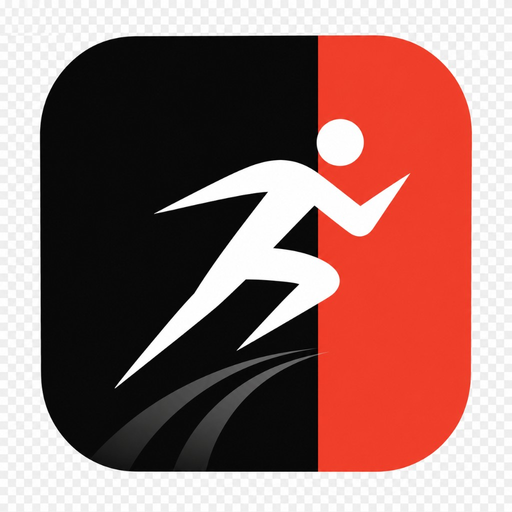
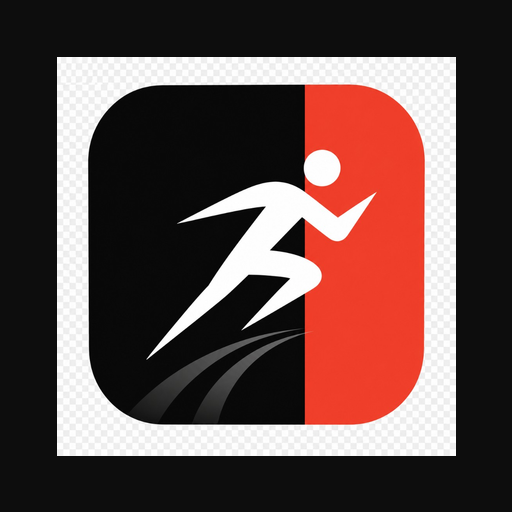
fix: corrige bordas brancas do icone PWA com zoom e canvas maskable solido

diff --git a/scripts/generate-icons.ts b/scripts/generate-icons.ts
@@ -1,35 +1,61 @@
-import { readFileSync } from "fs";
 import { join } from "path";
 import sharp from "sharp";
 
 const root = join(__dirname, "..");
 const sourcePath = join(root, "public", "app-icon-source.png");
-const source = readFileSync(sourcePath);
+
+const BG = "#0d0d0d"; // fundo sólido que combina com o ícone
 
 /**
- * Para ícones normais (favicon, apple-touch, manifest):
- * Usa a imagem diretamente sem padding — ela já tem o design final.
- *
- * Para o ícone maskable (Android adaptive icons):
- * O Android aplica uma máscara circular/arredondada sobre a área "safe zone" (80% do centro).
- * Como a imagem já tem fundo sólido e bordas arredondadas embutidas,
- * adicionamos um mínimo de padding (10%) com o preenchimento das cores da borda da imagem.
+ * Ícones normais (favicon, apple-touch, manifest "any"):
+ * Faz zoom de 10% para cortar as bordas brancas da imagem fonte
+ * e aplica fundo sólido para cobrir qualquer transparência.
  */
-
 async function resizeDirect(size: number): Promise<Buffer> {
-  return sharp(source)
+  // Redimensiona para 110% do tamanho alvo para cortar as bordas brancas
+  const oversized = Math.round(size * 1.1);
+  return sharp(sourcePath)
+    .resize(oversized, oversized, { fit: "cover", position: "centre" })
+    .flatten({ background: BG })
     .resize(size, size, { fit: "cover", position: "centre" })
-    .flatten({ background: "#000000" }) // preenche transparência com preto em vez de branco
     .png()
     .toBuffer();
 }
 
-async function generateMaskable(size: number): Promise<void> {
-  // Maskable: a imagem ocupa 100% (sem padding extra) para não perder conteúdo
-  // O Android já aplica a máscara em cima — usar a imagem cheia é o correto
-  await sharp(await resizeDirect(size))
+/**
+ * Ícone maskable (Android adaptive icon):
+ * Cria um canvas totalmente sólido e centraliza o conteúdo dentro
+ * da "safe zone" (80% central). O Android aplica sua própria máscara
+ * de forma (círculo, quadrado arredondado) em cima.
+ *
+ * Desta forma as bordas são sempre a cor de fundo sólida, nunca branco.
+ */
+async function generateMaskableFile(
+  canvasSize: number,
+  outFile: string
+): Promise<void> {
+  // Conteúdo ocupa 78% do canvas = dentro da safe zone (80%)
+  const contentSize = Math.round(canvasSize * 0.78);
+
+  const content = await sharp(sourcePath)
+    .resize(contentSize, contentSize, { fit: "cover", position: "centre" })
+    .flatten({ background: BG })
     .png()
-    .toFile(join(root, "public", "icon-512-maskable.png"));
+    .toBuffer();
+
+  const offset = Math.round((canvasSize - contentSize) / 2);
+
+  await sharp({
+    create: {
+      width: canvasSize,
+      height: canvasSize,
+      channels: 3,
+      background: BG,
+    },
+  })
+    .composite([{ input: content, top: offset, left: offset }])
+    .png()
+    .toFile(outFile);
 }
 
 async function main() {
@@ -46,8 +72,17 @@ async function main() {
     console.log(`Gerado: ${file} (${size}x${size})`);
   }
 
-  await generateMaskable(512);
-  console.log("Gerado: icon-512-maskable.png (512x512)");
+  await generateMaskableFile(
+    512,
+    join(root, "public", "icon-512-maskable.png")
+  );
+  console.log("Gerado: icon-512-maskable.png (512x512 maskable)");
+
+  await generateMaskableFile(
+    192,
+    join(root, "public", "icon-192-maskable.png")
+  );
+  console.log("Gerado: icon-192-maskable.png (192x192 maskable)");
 }
 
 main().catch((error) => {
